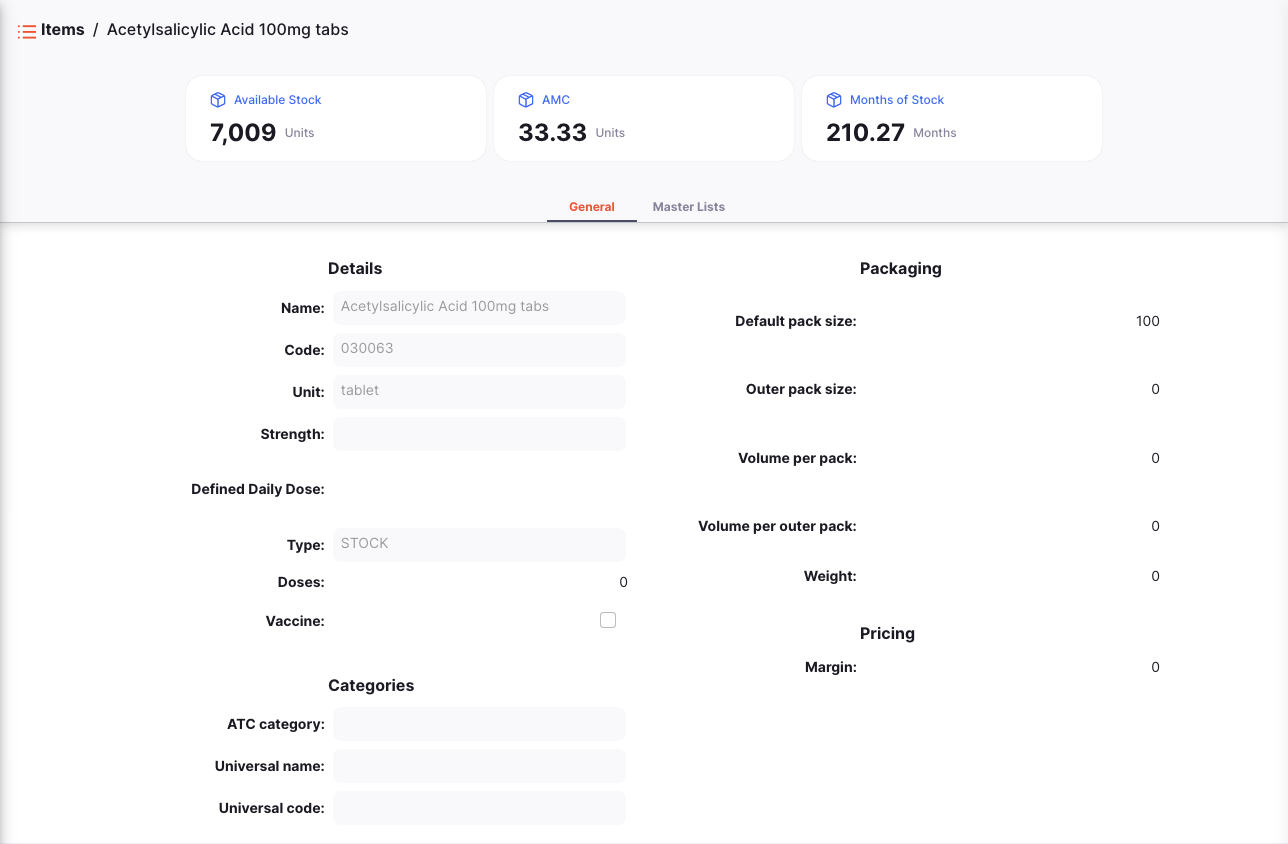
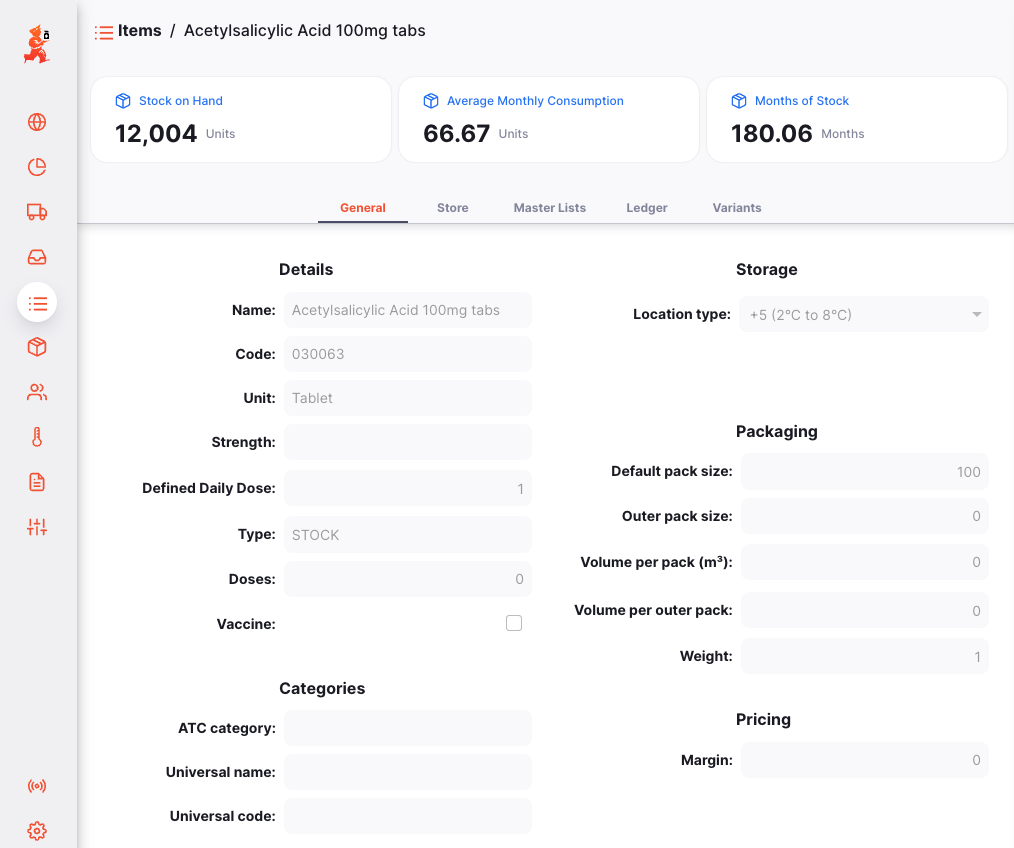
from 7b3032635223f445c24c2f6f02d3ba5858cc1d1c

diff --git a/content/docs/catalogue/items/index.md b/content/docs/catalogue/items/index.md
@@ -56,13 +56,11 @@ In the below example, we have 20,219 units of Acetylsalicylic Acid available in 
 
 ![Item detail headers](images-en/cat_itemdetailsheaders.png)
 
-There are two tabs in the bottom part of the screen:
-
-- **General**: The item's basic information
-- **Master Lists**: Master lists associated with the item
-<!-- - **Pack Variants**: Customisable pack sizes for the item. Can only be configured in Open mSupply's new central server. -->
+There are several tabs in the bottom part of the screen:
 
 ### General
+
+The general tab includes basic information about the item, including:
 
 #### Details
 
@@ -81,6 +79,10 @@ There are two tabs in the bottom part of the screen:
 - **Universal Name**: if the item is linked to the [universal drug code database](https://codes.msupply.foundation/), this shows the universal, or generic name for the given item
 - **Universal Code**: similarly, the code allocated to the universal drug code item
 
+#### Storage
+
+- **Location type**: The location type that this item is restricted to. Used for items that need to be stored in a specific type of location, such as cold storage.
+
 #### Packaging
 
 - **Default pack size**: This is the default pack size that will be assigned to incoming stock as it is received
@@ -92,6 +94,12 @@ There are two tabs in the bottom part of the screen:
 #### Pricing
 
 - **Margin**: This is the default margin that will be applied to this item on Inbound Shipments to calculate the selling price
+
+### Store
+
+The Store tab shows any configurations for this item that are specific to your current store.
+
+![Item detail store tab](images-en/item_store_properties.png)
 
 ### Master Lists
 
@@ -135,9 +143,7 @@ Select one or more filters to narrow down the results. The list will update to s
 
 ## Item Variants
 
-On the , [Open mSupply Central Server](../../getting_started/central-server/) a third tab, Item Variants, is available. This tab allows you to configure variations of the item, such as different manufacturers or packaging sizes.
-
-Currently, Item Variants are only used for GAPS functionality.
+On the [Open mSupply Central Server](../../getting_started/central-server/) an Item Variants tab is available. This tab allows you to configure variations of the item, such as different manufacturers or packaging sizes.
 
 ![variants tab](images-en/variants_tab.png)
 
@@ -157,11 +163,7 @@ Temperature options are configured as [Location Types](https://docs.msupply.org.
 
 Different facilities work in different levels of packaging, e.g. a warehouse may work in cartons, while a clinic works in boxes or individual units. In the Packaging section, you can define the pack size (units per pack) and packaging volume for the different packaging levels of an item variant.
 
-This allows GAPS calculations to accurately account for the cold storage requirements for this item variant, at the packaging level used by a particular facility.
-
-<div class="note">
-The pack sizes defined in Item Variants are used for GAPS calculations ONLY, to provide greater accuracy across item variations. It does not affect the pack sizes used in your usual ordering workflows in Open mSupply.
-</div>
+When introducing a new stock line, users will select the relevant Item Variant (e.g. based on manufacturer). If you have configured a Packaging level for that variant, with a pack size that matches the pack size of the stock line, Open mSupply will automatically set the `Volume per pack` for the stock line, based on the `Volume per unit` defined here.
 
 ### Editing an Item Variant
 

diff --git a/content/docs/manage/global_preferences/index.md b/content/docs/manage/global_preferences/index.md
@@ -35,3 +35,27 @@ Global Preferences can be configured by turning these options on or off. Any upd
 | **Gender Options**                   | The gender options available for clinicians and patients. This defines the options shown in gender filters and which can be assigned to clinicians and patients. |
 | **Custom Translations**              | Configure overrides for terms used throughout the application.                                                                                                   |
 | **Sync records display threshold**   | Number of sync records that can be pending before showing an alert over the Sync button.                                                                         |
+
+### Custom Translations
+
+The Custom Translations preference allows you to override specific terms used in the application. This is useful for localization or to adapt terminology to your specific context.
+
+<div class="note">
+Use this feature carefully. It can lead to confusion if terms do not match our documentation, or if they are not consistent across the application.
+</div>
+
+You can search by any text you see within the application, or if you know the translation key, you can search by that as well:
+
+![custom translations search](images/custom_translation_search.png)
+
+Select the translation you want to change, and then enter the new text in the input field:
+
+![custom translations edit](images/custom_translation_edit.png)
+
+Some translations include variables, which will be replaced with the appropriate values when they are used. You can move these variables around within the text, but ensure you keep them intact, so the messages continue to make sense. Variables are enclosed in double curly braces, like this: `{{variable_name}}`.
+
+![custom translations variable](images/custom_translation_variable.png)
+
+For translations that include number-based variables, we also support pluralization. If you select one of these translations, you will see both a `_one` and `_other` translation are added. Make sure you provide the correct text for both cases:
+
+![custom translations pluralization](images/custom_translation_count.png)

diff --git a/content/docs/inventory/stocktakes/index.md b/content/docs/inventory/stocktakes/index.md
@@ -135,6 +135,14 @@ There are several [reason types](https://docs.msupply.org.nz/preferences:options
 |                         | Vaccine                | Store               | Closed Vial Wastage                       |
 |                         |                        | Dispensary          | Closed Vial Wastage and Open Vial Wastage |
 
+### VVM Status
+
+You can update lots of information about the stock line as you do your stocktake, such as the batch number, expiry date, and location. If you are using the `Manage VVM status for stock` store preference, you will also be able to update the VVM status of vaccine items.
+
+![Stocktake VVM status](images/stocktake_change_vvm.png)
+
+VVM status changes will be applied when you finalise the stocktake. You can view the status change in the stock line VVM status history.
+
 ### Adding items
 
 If an item was not included in the generated stocktake rows when you created your stocktake, you can add it manually by clicking the `Add Item` button in the top right of your screen.

diff --git a/content/docs/distribution/outbound_shipments/index.md b/content/docs/distribution/outbound_shipments/index.md
@@ -518,11 +518,7 @@ To edit a shipment line, tap on it. You will be presented with the `Edit Item` w
 2. Select the line(s) you want to delete by checking the box(es) on the left hand side of the list.
 3. Click the `Delete` button which appears at the bottom of the page.
 
-<div class="imagetitle">
-In the below example, we are deleting <i>three placeholder lines</i>.
-</div>
-
-![Alt Text](images/delete-outbound-shipment-line.gif)
+![Outbound Shipment: delete line](images/delete_os_line.png)
 
 <div class="tip">
  <b></b> You can delete multiple lines at once. Be sure to review what is selected before performing the Delete action. 
